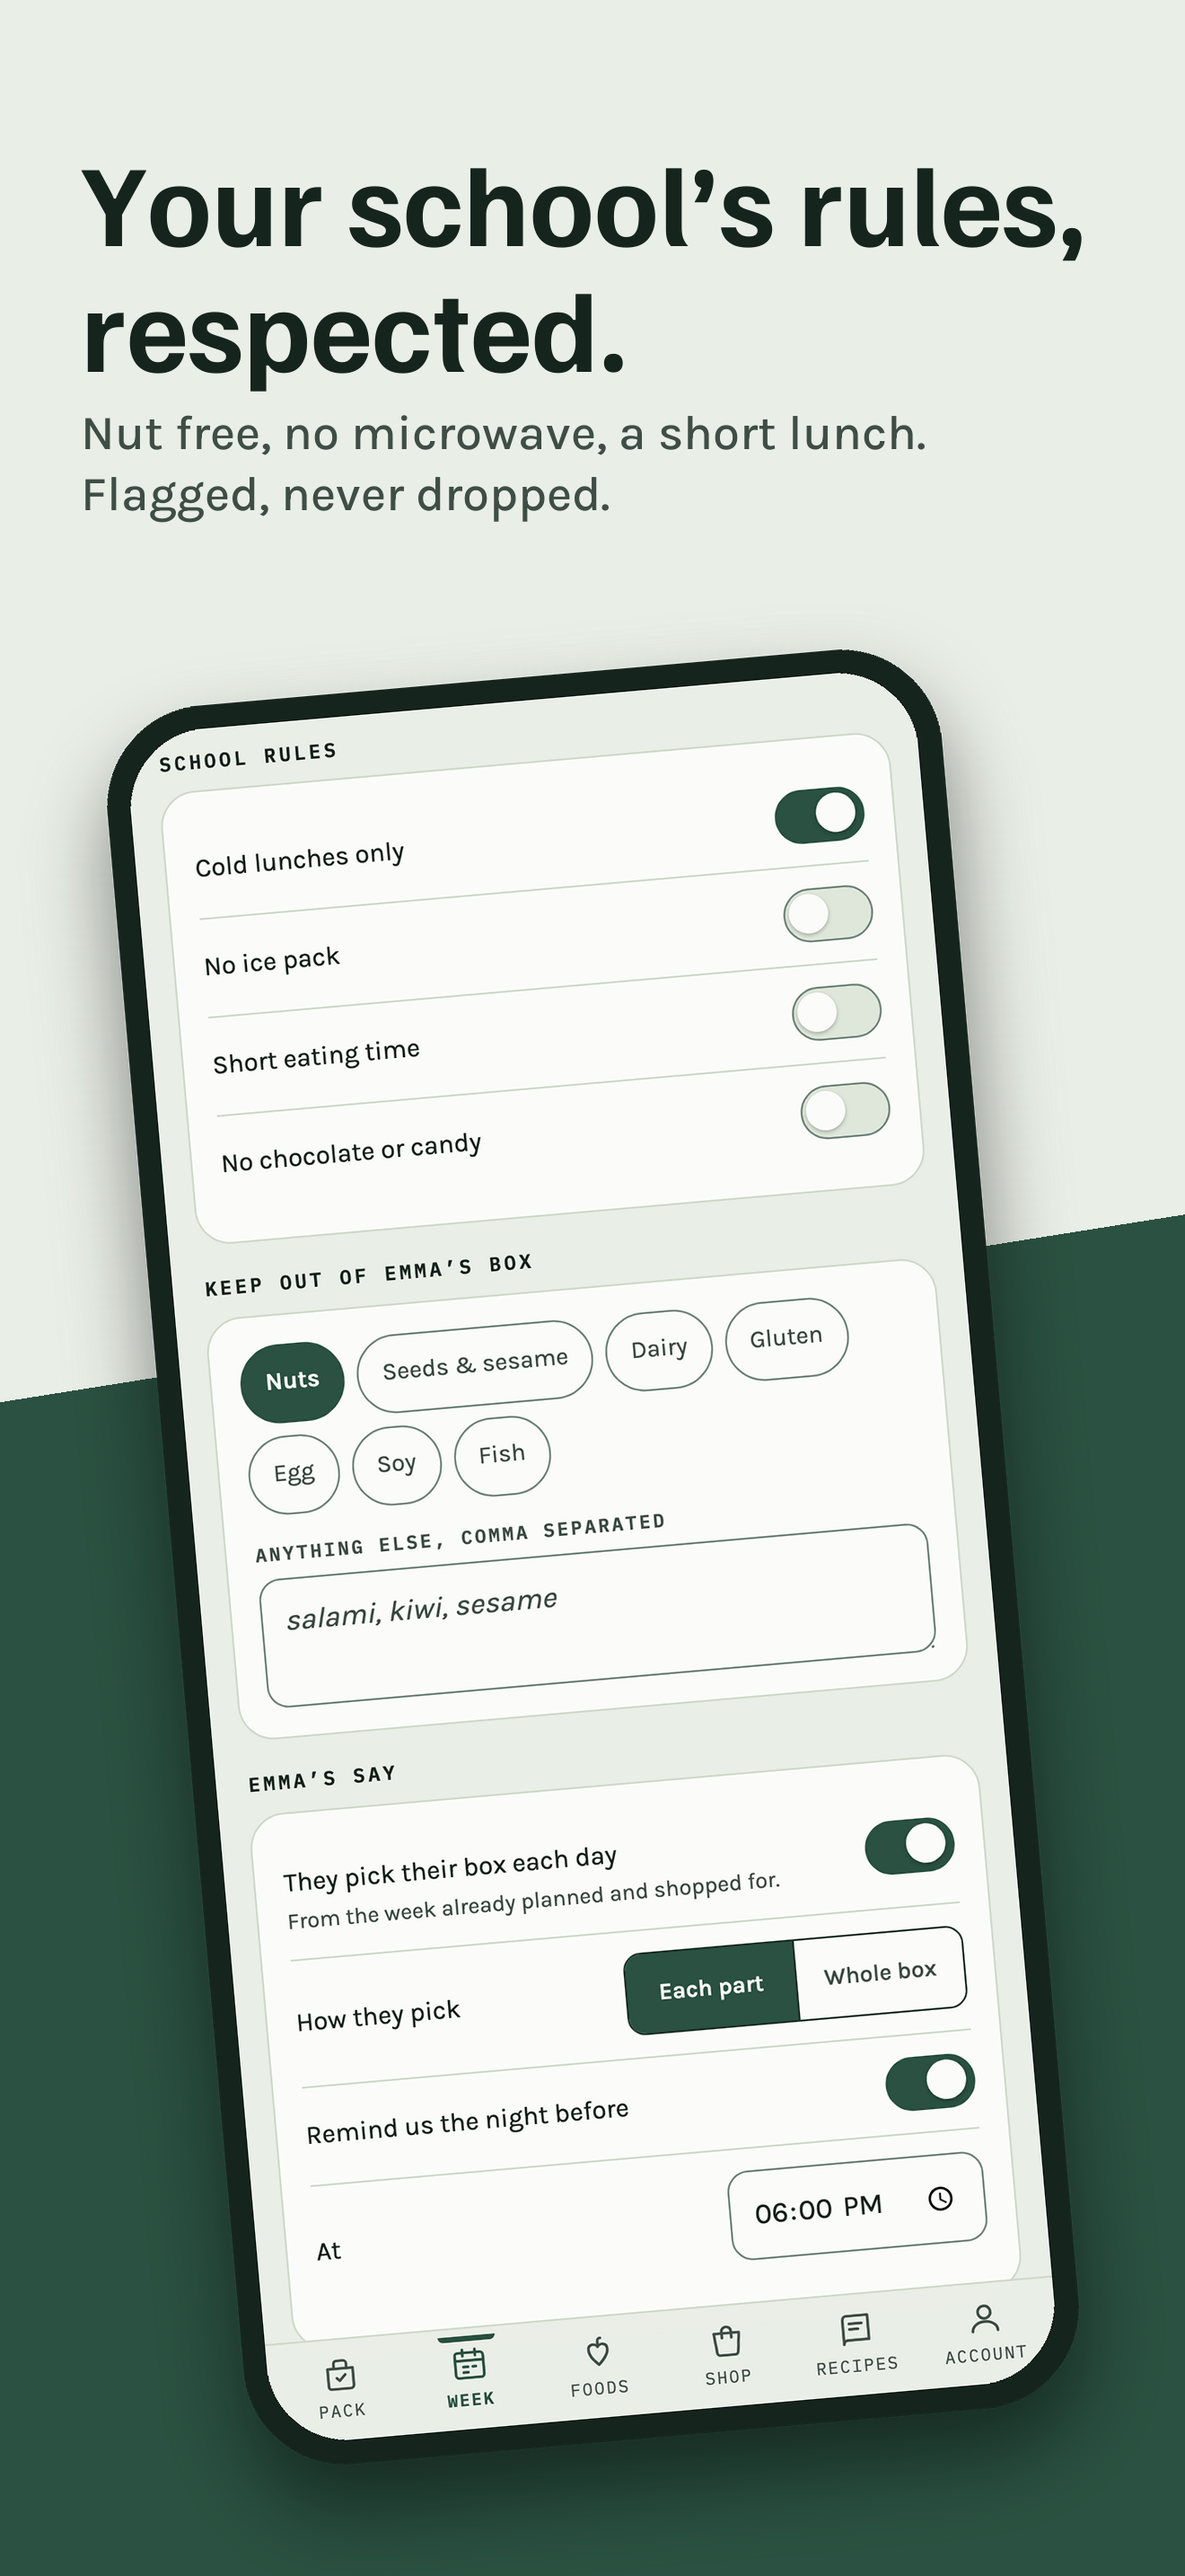
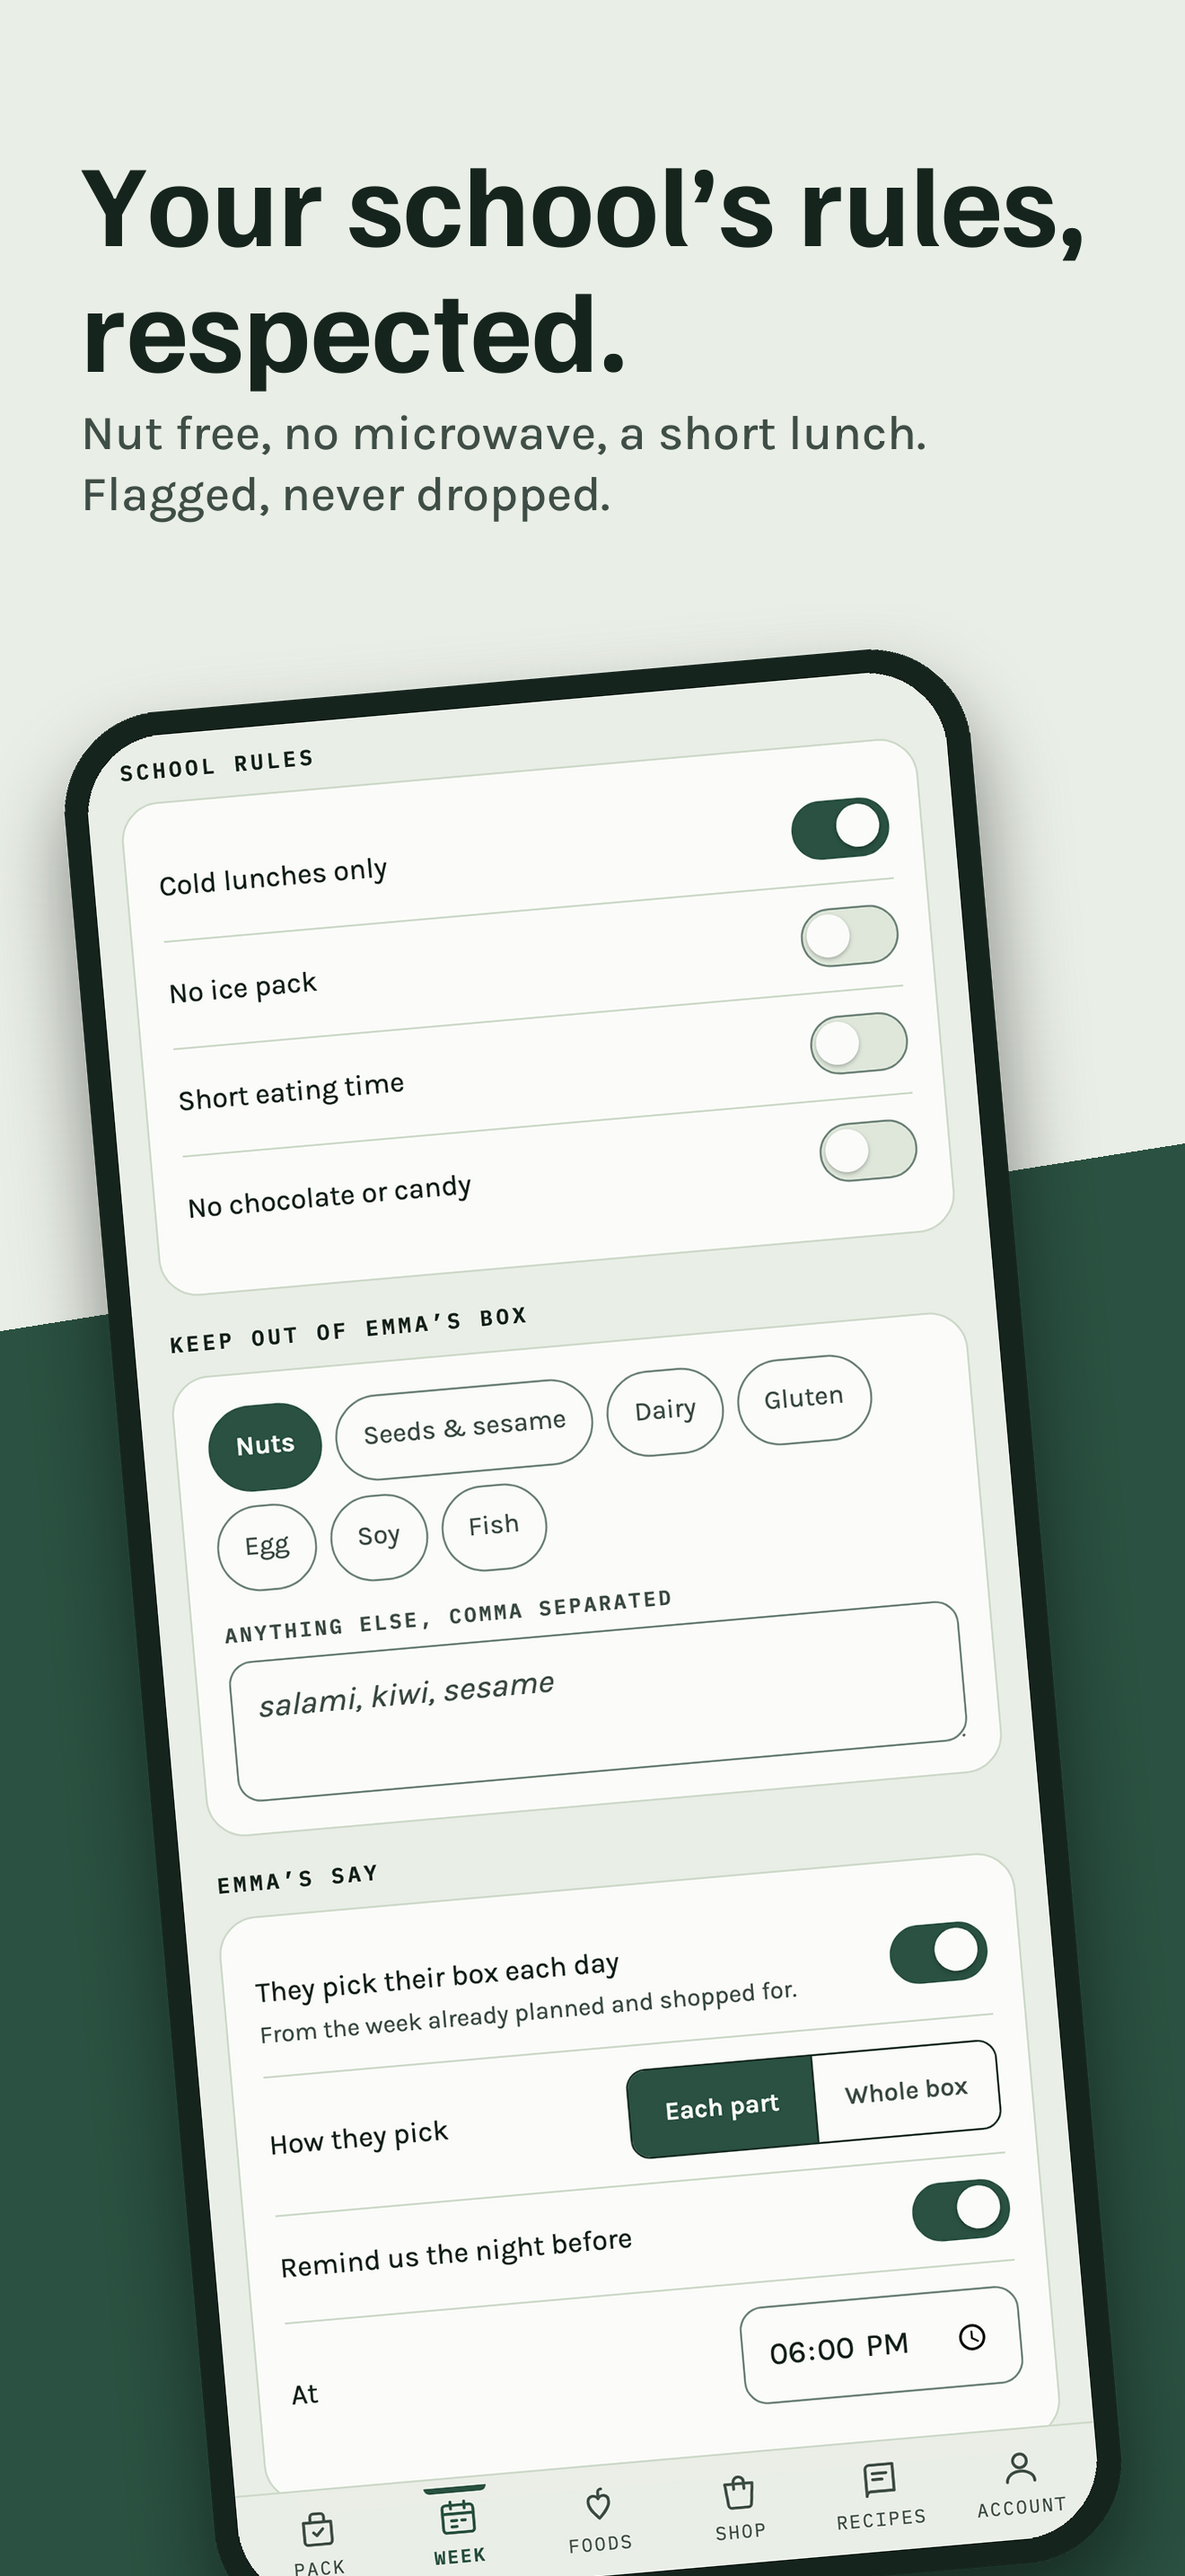
Store: the first three screenshots are one scene, every phone the same size
The kid's pick capture is no longer cropped, so its phone matches the others.
The first three are drawn on one canvas three frames wide and cut: one band,
the first phone leaning into the second frame, the middle phone on top.

Changed region(s): [[0.0, 0.2483, 1.0, 1.0]]

diff --git a/scripts/store-compose.py b/scripts/store-compose.py
@@ -1,9 +1,10 @@
 """Composes the App Store screenshots: each raw capture from store-shots.mjs set in a
-phone with a heavy bezel, tilted a few degrees, on one of the brand's compartment
-colors, under a short headline, at 1320x2868 (the 6.9-inch slot; App Store Connect
-scales it for smaller phones). Fonts are the app's own, checked in under store/
-(Familjen Grotesk and Karla, both under the SIL Open Font License, from Google Fonts).
-Run by scripts/store-shots.mjs."""
+phone with a heavy bezel, tilted a few degrees, over a slab of one of the icon's four
+compartment colors on the app's ground color, under a short headline, at 1320x2868 (the
+6.9-inch slot; App Store Connect scales it for smaller phones). The first three are drawn
+as one wide scene and cut into three, because search results show them side by side.
+Fonts are the app's own, checked in under store/ (Familjen Grotesk and Karla, both under
+the SIL Open Font License, from Google Fonts). Run by scripts/store-shots.mjs."""
 from PIL import Image, ImageDraw, ImageFont, ImageFilter
 import os
 
@@ -30,13 +31,12 @@ SHOTS = [
     ('setup',   '07-rules',   'Your school’s rules,\nrespected.',   'Nut free, no microwave, a short lunch. Flagged, never dropped.'),
     ('foods',   '08-foods',   'Foods they’ll\nactually eat.',       'Start from what parents pack.'),
 ]
-CROP_BOT = {}                 # (name: raw pixels off the bottom); the cook sheet's empty ground reads as screen inside the bezel
-CROP_TOP = {'kidpick': 320}   # (name: raw pixels off the top) the kid's pick fills its screen exactly
 
-SCREEN_W = 880      # the screen inside the bezel; the phone then fits the canvas whole, tilted
+SCREEN_W = 960      # the screen inside the bezel; every phone is the same size, and runs just off the bottom
 BEZEL = 26
 TILT = 5            # degrees; alternates sign down the set so three in a row read as a set, not a wall
 MARGIN = 90
+PHONE_TOP = 700     # where the bezel's top lands; the headline block ends above it
 
 def wrap(draw, text, font, width):
     lines = []
@@ -57,63 +57,72 @@ def headline(draw, text, width):
         if len(lines) <= 2: return font, lines, size
     return font, lines, size
 
+def caption(canvas, x, head, sub):
+    d = ImageDraw.Draw(canvas)
+    font, lines, size = headline(d, head, W - 2 * MARGIN)
+    y = 140
+    for line in lines:
+        d.text((x + MARGIN, y), line, font=font, fill=INK); y += int(size * 1.08)
+    y += 30
+    for line in wrap(d, sub, SUB, W - 2 * MARGIN):
+        d.text((x + MARGIN, y), line, font=SUB, fill=INK2); y += 68
+
 def rounded(im, r):
     mask = Image.new('L', im.size, 0)
     ImageDraw.Draw(mask).rounded_rectangle([0, 0, im.width - 1, im.height - 1], r, fill=255)
     out = Image.new('RGBA', im.size, (0, 0, 0, 0)); out.paste(im, (0, 0), mask); return out
 
-def phone(shot):
-    """The capture in a bezel, with its shadow, as one RGBA layer."""
+PAD = 160           # room around the phone for the shadow's blur
+
+def phone(raw, sign):
+    """The capture in a bezel, with its shadow, tilted, as one RGBA layer."""
+    shot = Image.open(os.path.join(OUT, 'raw-' + raw + '.png')).convert('RGB')
     sw = SCREEN_W; sh = int(shot.height * sw / shot.width)
     screen = rounded(shot.resize((sw, sh), Image.LANCZOS), 88)
     fw, fh = sw + 2 * BEZEL, sh + 2 * BEZEL
-    pad = 160                                           # room for the shadow's blur
-    layer = Image.new('RGBA', (fw + 2 * pad, fh + 2 * pad), (0, 0, 0, 0))
+    layer = Image.new('RGBA', (fw + 2 * PAD, fh + 2 * PAD), (0, 0, 0, 0))
     shadow = Image.new('RGBA', layer.size, (0, 0, 0, 0))
-    ImageDraw.Draw(shadow).rounded_rectangle([pad, pad + 50, pad + fw, pad + fh + 50], 112, fill=(0, 0, 0, 120))
-    shadow = shadow.filter(ImageFilter.GaussianBlur(44))
-    layer.alpha_composite(shadow)
-    ImageDraw.Draw(layer).rounded_rectangle([pad, pad, pad + fw, pad + fh], 112, fill=INK + (255,))
-    layer.alpha_composite(screen, (pad + BEZEL, pad + BEZEL))
-    return layer
+    ImageDraw.Draw(shadow).rounded_rectangle([PAD, PAD + 50, PAD + fw, PAD + fh + 50], 112, fill=(0, 0, 0, 120))
+    layer.alpha_composite(shadow.filter(ImageFilter.GaussianBlur(44)))
+    ImageDraw.Draw(layer).rounded_rectangle([PAD, PAD, PAD + fw, PAD + fh], 112, fill=INK + (255,))
+    layer.alpha_composite(screen, (PAD + BEZEL, PAD + BEZEL))
+    return layer.rotate(sign * TILT, resample=Image.BICUBIC, expand=True)
 
-def slab(canvas, color, sign, i):
-    """A compartment-colored slab behind the lower part of the phone, running off the sides and
-    the bottom: color behind the phone, not all over the page. The first BAND frames share one
-    slab, drawn across a canvas BAND frames wide and cropped per frame, so the row in search
-    results reads as one scene."""
-    if i < BAND:
-        wide = Image.new('RGBA', (W * BAND, H), (0, 0, 0, 0))
-        layer = Image.new('RGBA', (int(W * BAND * 1.3), int(H * 0.7)), (0, 0, 0, 0))
-        ImageDraw.Draw(layer).rounded_rectangle([0, 0, layer.width - 1, layer.height - 1], 140, fill=color + (255,))
-        layer = layer.rotate(6, resample=Image.BICUBIC, expand=True)
-        wide.paste(layer, ((wide.width - layer.width) // 2, int(H * 0.78) - layer.height // 2), layer)
-        part = wide.crop((i * W, 0, (i + 1) * W, H))
-        canvas.paste(part, (0, 0), part)
-        return
-    layer = Image.new('RGBA', (int(W * 1.6), int(H * 0.8)), (0, 0, 0, 0))
+def place(canvas, layer, cx):
+    """The phone centered on cx, its bezel's top near PHONE_TOP."""
+    canvas.paste(layer, (cx - layer.width // 2, PHONE_TOP - PAD), layer)
+
+def slab(canvas, color, angle, cy, width):
+    """A compartment-colored slab, tilted, running off the sides and the bottom: color behind
+    the phone, not all over the page."""
+    layer = Image.new('RGBA', (width, int(H * 0.75)), (0, 0, 0, 0))
     ImageDraw.Draw(layer).rounded_rectangle([0, 0, layer.width - 1, layer.height - 1], 140, fill=color + (255,))
-    layer = layer.rotate(sign * 9, resample=Image.BICUBIC, expand=True)
-    canvas.paste(layer, ((W - layer.width) // 2, int(H * 0.46)), layer)
+    layer = layer.rotate(angle, resample=Image.BICUBIC, expand=True)
+    canvas.paste(layer, ((canvas.width - layer.width) // 2, cy - layer.height // 2), layer)
 
-for i, (raw, name, head, sub) in enumerate(SHOTS):
-    src = os.path.join(OUT, 'raw-' + raw + '.png')
-    if not os.path.exists(src): print('missing', src); continue
-    shot = Image.open(src).convert('RGB')
-    if raw in CROP_TOP: shot = shot.crop((0, CROP_TOP[raw], shot.width, shot.height))
-    if raw in CROP_BOT: shot = shot.crop((0, 0, shot.width, shot.height - CROP_BOT[raw]))
-    canvas = Image.new('RGB', (W, H), GROUND); d = ImageDraw.Draw(canvas)
-    font, lines, size = headline(d, head, W - 2 * MARGIN)
-    y = 140
-    for line in lines:
-        d.text((MARGIN, y), line, font=font, fill=INK); y += int(size * 1.08)
-    y += 30
-    for line in wrap(d, sub, SUB, W - 2 * MARGIN):
-        d.text((MARGIN, y), line, font=SUB, fill=INK2); y += 68
+missing = [r for r, *_ in SHOTS if not os.path.exists(os.path.join(OUT, 'raw-' + r + '.png'))]
+if missing: raise SystemExit('missing raw captures: ' + ', '.join(missing))
+
+# The first three: one scene, BAND frames wide. The phones lean in and cross the cuts a little,
+# the middle one on top, so the row in search results reads as one picture.
+wide = Image.new('RGB', (W * BAND, H), GROUND)
+slab(wide, BACKS[0], 6, int(H * 0.8), int(W * BAND * 1.3))
+for i in range(BAND): caption(wide, i * W, SHOTS[i][2], SHOTS[i][3])
+centers = [int(W * 0.65), int(W * 1.5), int(W * 2.45)]   # the first leans into the second frame; the third stays whole, its screen reads from the left edge
+layers = [phone(SHOTS[i][0], 1 if i % 2 == 0 else -1) for i in range(BAND)]
+for i in (0, 2, 1): place(wide, layers[i], centers[i])
+for i in range(BAND):
+    wide.crop((i * W, 0, (i + 1) * W, H)).save(os.path.join(OUT, SHOTS[i][1] + '.png'), optimize=True)
+    print('composed', SHOTS[i][1])
+wide.resize((W * BAND // 3, H // 3)).save('/private/tmp/claude-501/-Users-lizkronzek-lunch-sorted/5ba8f9d4-3a70-4bef-bc17-eafc058fa828/scratchpad/wide.png') if os.environ.get('WIDE_PREVIEW') else None
+
+# The rest: one frame each, the slab's color and tilt alternating.
+for i in range(BAND, len(SHOTS)):
+    raw, name, head, sub = SHOTS[i]
     sign = 1 if i % 2 == 0 else -1
-    slab(canvas, BACKS[0] if i < BAND else BACKS[(i - BAND + 1) % len(BACKS)], sign, i)
-    layer = phone(shot).rotate(sign * TILT, resample=Image.BICUBIC, expand=True)
-    top = max(y + 60, 700)
-    canvas.paste(layer, ((W - layer.width) // 2, top - 160), layer)
+    canvas = Image.new('RGB', (W, H), GROUND)
+    slab(canvas, BACKS[(i - BAND + 1) % len(BACKS)], sign * 9, int(H * 0.86), int(W * 1.6))
+    caption(canvas, 0, head, sub)
+    place(canvas, phone(raw, sign), W // 2)
     canvas.save(os.path.join(OUT, name + '.png'), optimize=True)
-    print('composed', name, size)
+    print('composed', name)

diff --git a/store/listing.md b/store/listing.md
@@ -149,8 +149,9 @@ page stays the ground color with the headline in ink, and each screen sits in a 
 heavy bezel, tilted five degrees, alternating, over a slab of one of the icon's four compartment
 colors that runs off the sides and the bottom (a full-color page read as aggressive; the color
 is behind the phone, not all over). Two-line headline, one short line. The first three are what
-search results show side by side, so they share one green band drawn across all three and the
-headlines are sized to read at a third of this width.
+search results show side by side, so they are one scene cut in three: one green band across all
+three, the phones the same size as the rest of the set, the first leaning into the second frame
+and the middle one on top. Headlines are sized to read at a third of this width.
 
 They live in `screenshots/`, 1320×2868, the 6.9-inch slot, and App Store Connect scales
 them for the smaller phones. Regenerate with `CHROMIUM_PATH=… node scripts/store-shots.mjs`.
